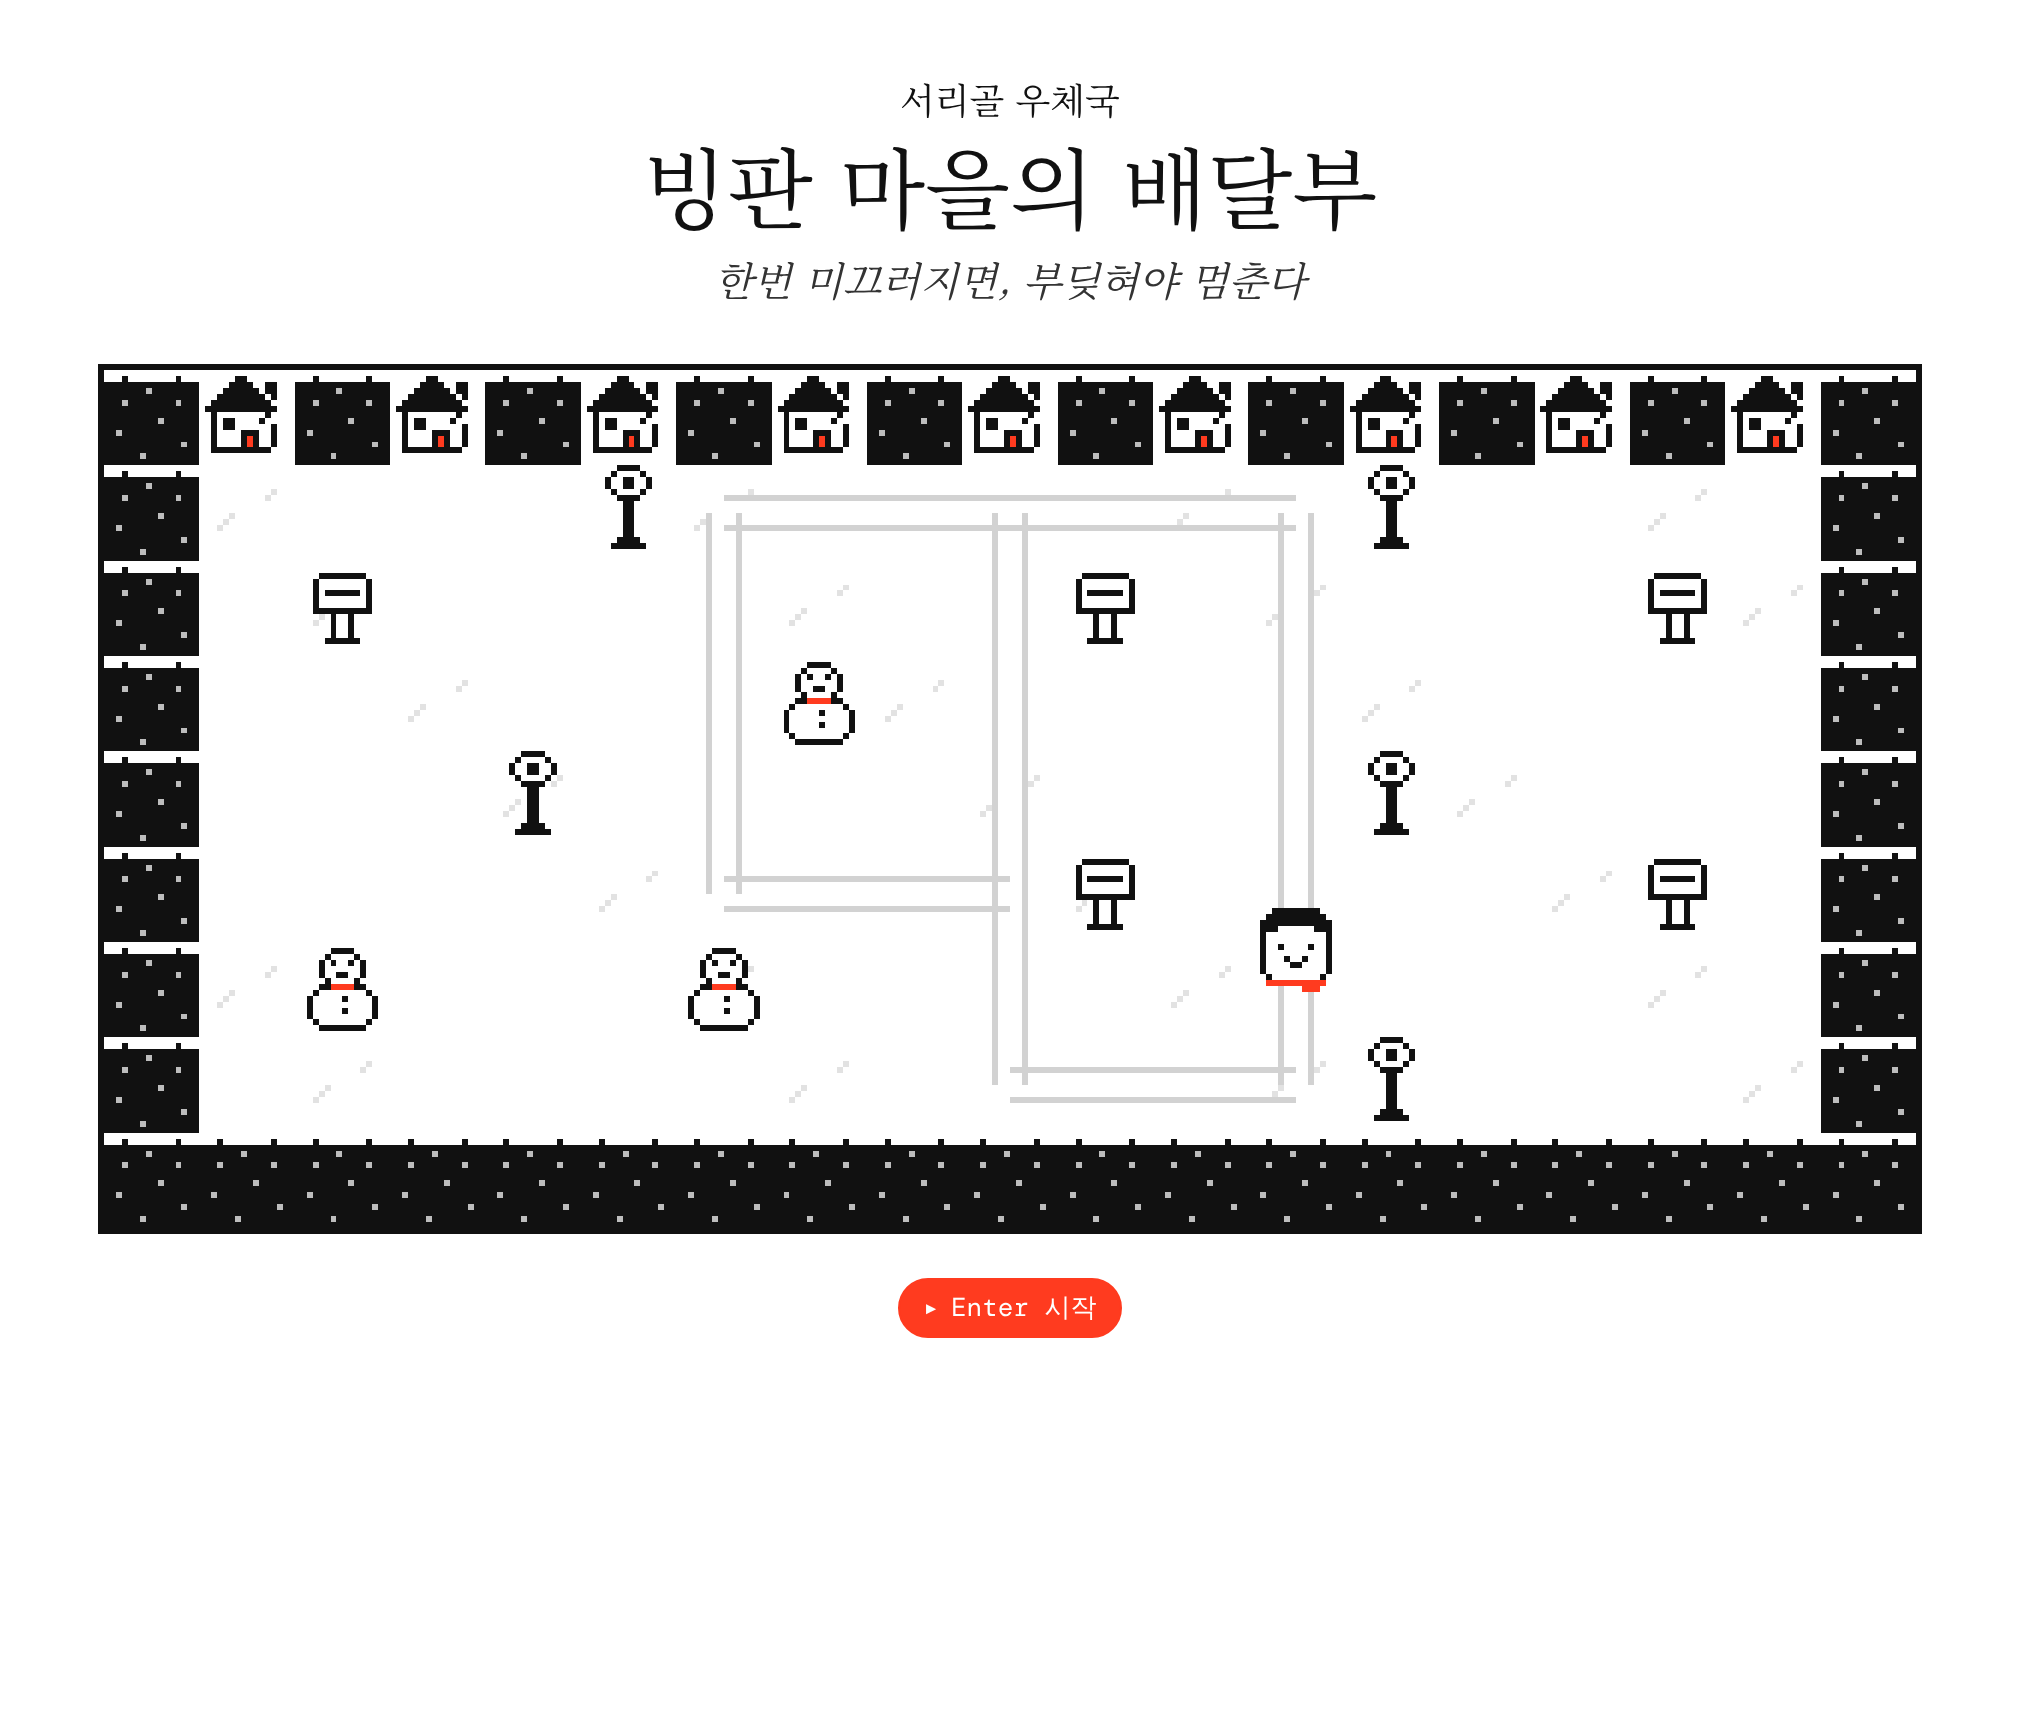
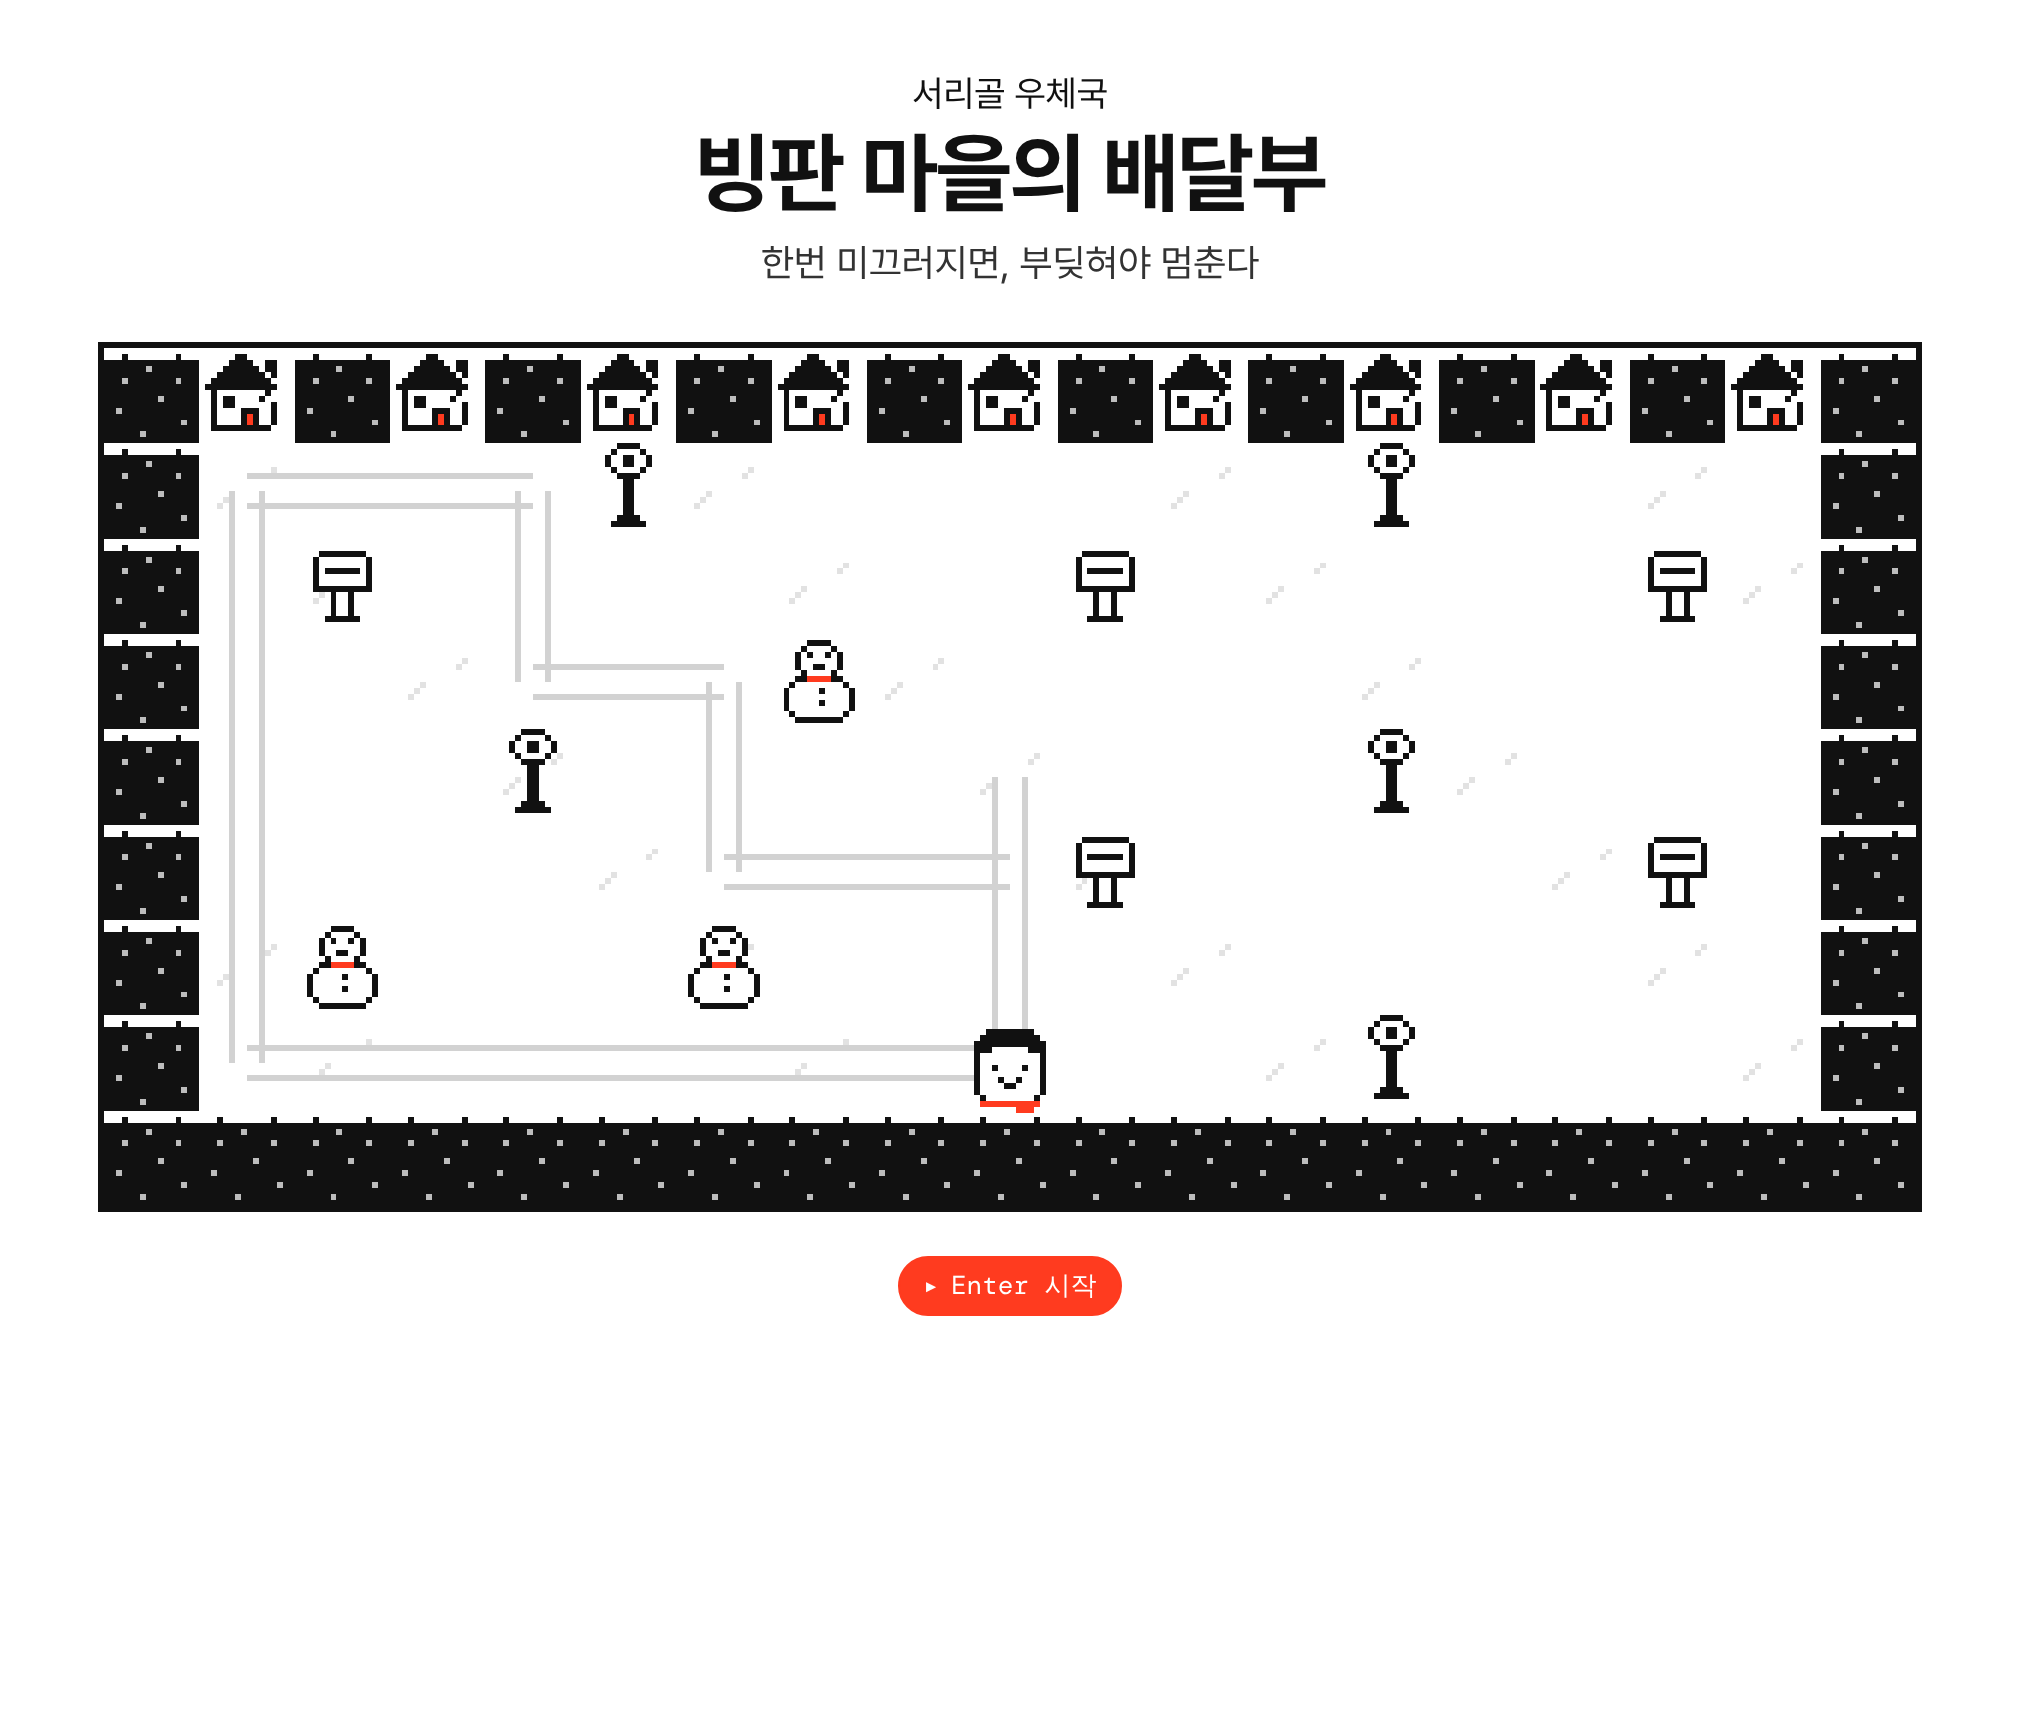
Switch all serif text to Pretendard
Claude-Session: https://claude.ai/code/session_014HkyDTJCxxBXXPtEueGmzP

diff --git a/index.html b/index.html
@@ -5,21 +5,22 @@
 <meta name="viewport" content="width=device-width, initial-scale=1">
 <title>빙판 마을의 배달부</title>
 <link rel="preconnect" href="https://fonts.googleapis.com">
-<link href="https://fonts.googleapis.com/css2?family=DM+Mono:wght@400;500&family=Noto+Serif+KR:wght@400;600&display=swap" rel="stylesheet">
+<link href="https://fonts.googleapis.com/css2?family=DM+Mono:wght@400;500&display=swap" rel="stylesheet">
+<link rel="stylesheet" href="https://cdn.jsdelivr.net/gh/orioncactus/pretendard@v1.3.9/dist/web/variable/pretendardvariable-dynamic-subset.min.css">
 <style>
 :root{--ink:#111;--paper:#fff;--panel:#ebebeb;--mid:#bdbdbd;--accent:#ff3b1f;
-  --serif:"Noto Serif KR","Nanum Myeongjo",serif;--mono:"DM Mono",ui-monospace,Menlo,monospace;
-  --sans:"Pretendard","Apple SD Gothic Neo","Noto Sans KR","Malgun Gothic",sans-serif}
+  --mono:"DM Mono",ui-monospace,Menlo,monospace;
+  --sans:"Pretendard Variable","Pretendard","Apple SD Gothic Neo","Noto Sans KR","Malgun Gothic",sans-serif}
 *{box-sizing:border-box}
 html,body{margin:0;background:var(--paper);color:var(--ink);font-family:var(--sans)}
 body{min-height:100vh;display:flex;justify-content:center}
 #app{width:960px;max-width:100%;padding:36px 24px 150px;position:relative}
 canvas{image-rendering:pixelated;display:block}
 .screen{display:none}.screen.on{display:block}
-h1{font-family:var(--serif);font-weight:400;font-size:44px;line-height:1.2;margin:0;text-align:center}
-h2{font-family:var(--serif);font-weight:400;font-size:30px;margin:0;text-align:center}
-.over{font-family:var(--serif);font-size:18px;text-align:center;margin:0 0 4px}
-.sub{font-family:var(--serif);font-style:italic;font-size:20px;text-align:center;margin:6px 0 0;color:#333}
+h1{font-family:var(--sans);font-weight:700;letter-spacing:-.02em;font-size:44px;line-height:1.2;margin:0;text-align:center}
+h2{font-family:var(--sans);font-weight:700;letter-spacing:-.02em;font-size:30px;margin:0;text-align:center}
+.over{font-family:var(--sans);font-size:18px;text-align:center;margin:0 0 4px}
+.sub{font-family:var(--sans);font-size:19px;text-align:center;margin:6px 0 0;color:#333}
 .pill{display:inline-flex;align-items:center;gap:6px;font-family:var(--mono);font-size:13px;background:var(--paper);
   border:1px solid var(--ink);border-radius:999px;padding:5px 12px;white-space:nowrap}
 button.pill{cursor:pointer;color:var(--ink)}
@@ -70,7 +71,7 @@ button.pill:hover,.pill.hot{background:var(--ink);color:var(--paper)}
 #dlgBody{flex:1;min-width:0}
 #dlgName{margin-bottom:8px}
 #dlgText{font-size:18px;line-height:1.65;white-space:pre-line;font-family:var(--sans)}
-#dlgText.narr{font-family:var(--serif)}
+#dlgText.narr{font-family:var(--sans)}
 #dlgNext{font-family:var(--mono);font-size:11px;color:#777;margin-top:8px;text-align:right}
 #veil{position:fixed;inset:0;background:rgba(255,255,255,.72);display:none;z-index:10}
 #veil.on{display:block}
@@ -80,7 +81,7 @@ button.pill:hover,.pill.hot{background:var(--ink);color:var(--paper)}
 #book.on{display:block}
 #bookIn{width:760px;max-width:100%;margin:0 auto}
 .quest{display:grid;grid-template-columns:72px 1fr auto;gap:18px;align-items:center;padding:14px 0;border-bottom:1px solid var(--panel)}
-.quest .qt{font-family:var(--serif);font-size:20px}
+.quest .qt{font-family:var(--sans);font-weight:600;font-size:19px}
 .quest .qd{font-size:14px;color:#555;margin-top:2px}
 .stamp{width:64px;height:64px}
 </style>
